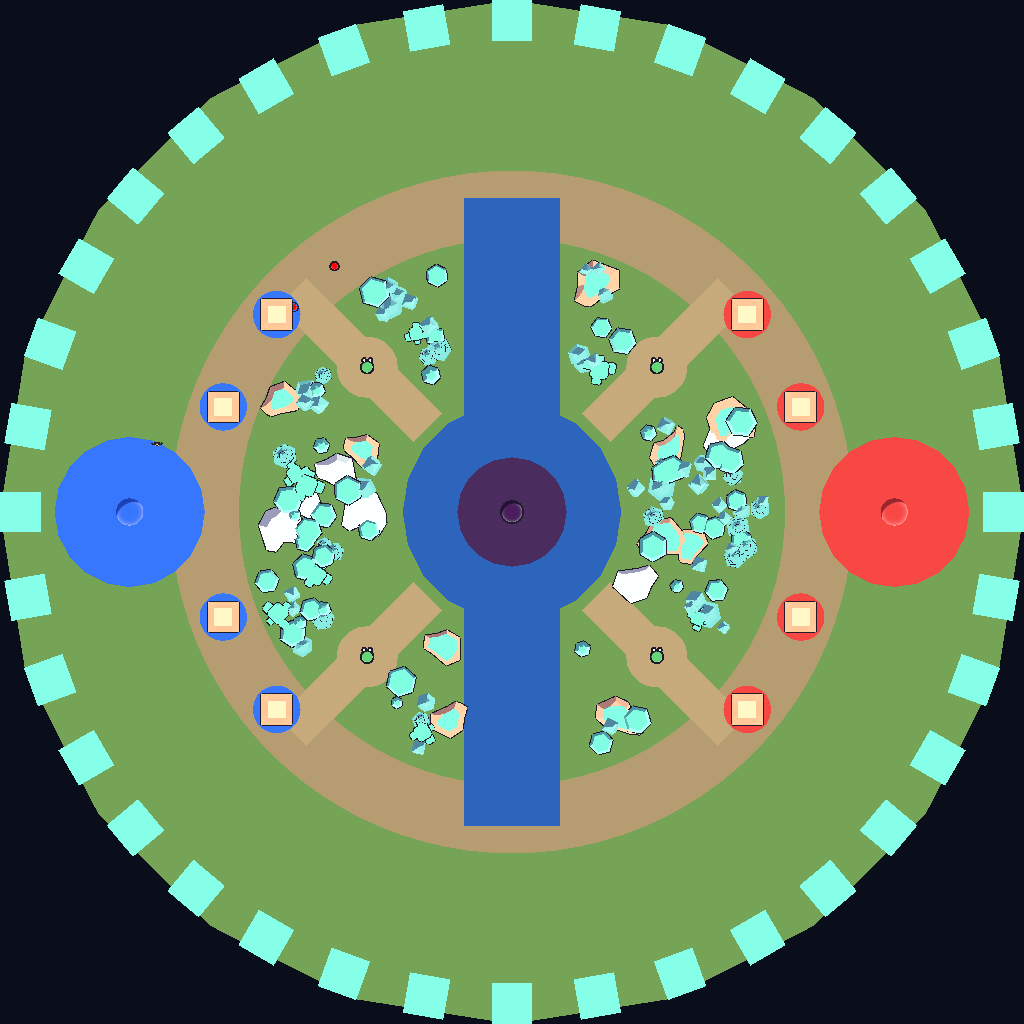
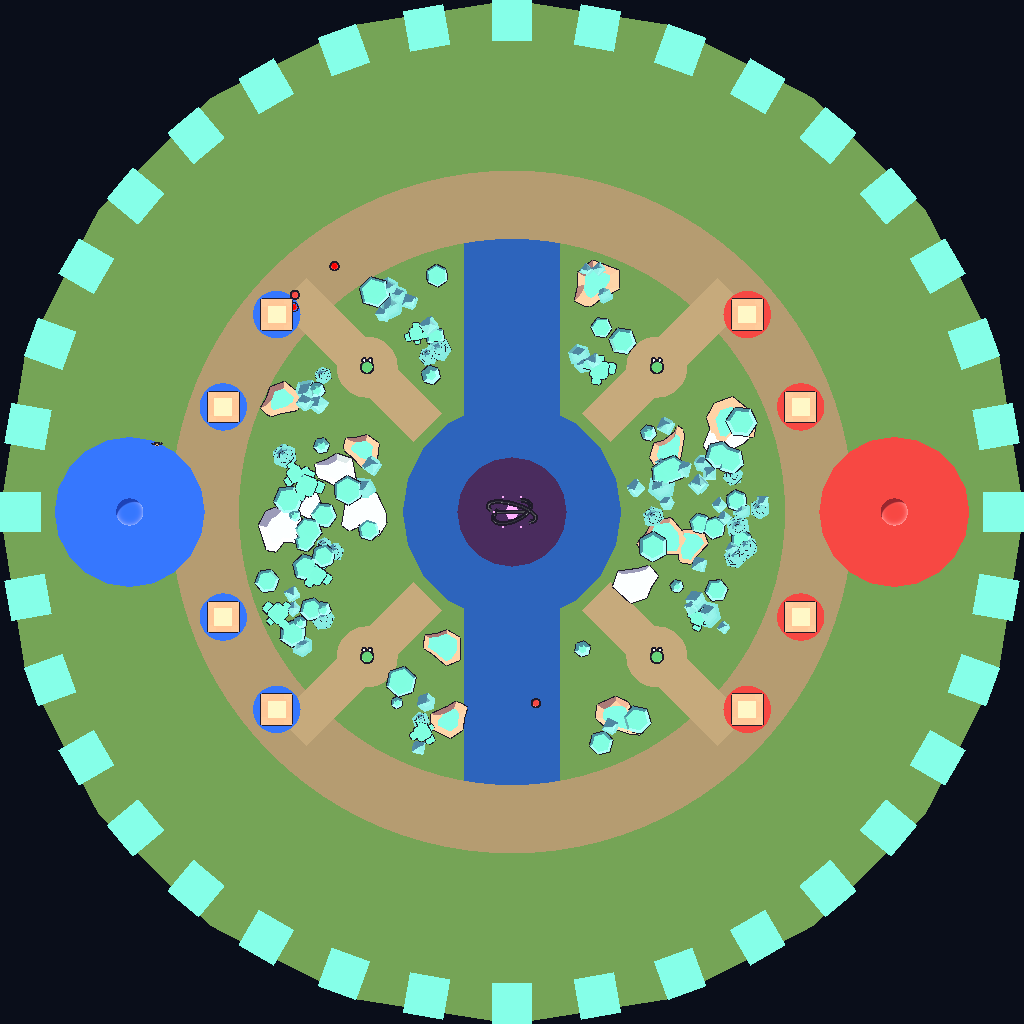
記事: ボスのプロシージャルモデリングとLoL式スキルシステム

Changed region(s): [[0.4375, 0.75, 0.5625, 0.8125], [0.4375, 0.1875, 0.5625, 0.25], [0.4688, 0.4688, 0.5312, 0.5312]]

diff --git a/_posts/2026-06-12-skill-system-and-boss.md b/_posts/2026-06-12-skill-system-and-boss.md
@@ -1,0 +1,60 @@
+---
+layout: post
+title: "ボスをプロシージャルモデリングし、スキルに LoL の魂を入れる"
+tags: [ボス, スキルシステム, プロシージャル, マップ]
+---
+
+今回は4本立て: 中立ボス「エニグマ・コア」の見た目刷新、LoL 式スキルポイント制、川とレーンのレイヤリング修正、デバッグ用ダミー敵。EditMode テストは 182 件になった。
+
+<figure>
+  <img src="{{ '/assets/img/boss_core.jpg' | relative_url }}" alt="エニグマ・コアの新ビジュアル">
+  <figcaption>新生エニグマ・コア。発光する六角両錐クリスタルの周りを3本のリングが別軸で回る</figcaption>
+</figure>
+
+## ボスは「買う」のでも「描く」のでもなく「生成する」
+
+ボスの見た目はずっと仮のカプセルだった。アセットストアから何かを導入する手もあったが、「エニグマ・コア=謎の核」というコンセプトには既製のゴーレムより**幾何学的な人工物**が合う。そこでメッシュをコードで生成することにした。
+
+- **本体**: 六角両錐(バイピラミッド)。三角形ごとに頂点を分離してフラット法線にすることで、宝石のカット面のようなエッジを出す
+- **リング3本**: トーラスメッシュ(半径 2.2 / 2.9 / 3.6)。それぞれ別の軸・速度で回転
+- **破片6個**: 小さな両錐が半径 2.6 の円周を公転
+
+マテリアルは URP/Unlit に明度2倍の紫シアンを入れてブルームで発光させる。回転・浮遊は `BossCoreVisual` という transform 操作だけの小さなスクリプトで、ボスの AI・HP・ギミックには一切触れていない(見た目の子オブジェクトだけ差し替え)。
+
+プロシージャル生成の利点は調整がパラメータで済むこと。「リングをもう1本」「クリスタルを細く」が数字1つで、再生成すれば完了する。
+
+## スキルに LoL の魂: ポイント制・ランク・ツールチップ
+
+これまで Q/E/R は最初から全部使えた。LoL の「レベルアップでスキルを選んで育てる」意思決定を移植した:
+
+- レベルアップごとにポイント1。**Q/E は最大ランク5**(ランク n には Lv 2n−1 が必要)、**R は Lv6/8/10 でのみ**最大3まで
+- ランクごとにダメージ +25%。**ランク0 のスキルは撃てない**(ロックアイコン表示)
+- ポイントがあるとスロットの上に金色の「+」が出てクリックで習得 — おなじみの UI
+- スロットにカーソルを合わせると、スキル名・ランク・**倍率適用後の実ダメージ**・CD・説明文のツールチップ
+
+ルールは全て plain C# の `SkillProgression` に隔離し、25件のテストで「R は Lv7 でランク2にできない」のような境界を固定した。UI はこのクラスに問い合わせるだけなので、仕様変更(例: 最大レベルを 18 に拡張)はロジック側の定数変更で済む。
+
+キャスト時のエフェクトも追加: マズルバースト(Q=シアン / E=マゼンタ / R=ゴールド)、弾のトレイル、AoE の着弾バースト。パーティクルアセットは使わず、Unlit 透過マテリアル+拡大フェードの自壊スクリプトという最小構成。
+
+## 川がレーンの上に被っていた問題
+
+プレイテスト指摘より。同一平面のチラつき(Z-fighting)を防ぐために地形を「階段状」に重ねていたのだが、その順序が **川 > レーン** になっており、レーンとの交差部で川が上書きしていた。陸路が水没して見える。
+
+修正は階段順の組み替えだけ: <code>地面(0) &lt; 川上面(0.03) &lt; ジャングルパス(0.045) &lt; レーン(0.06)</code>。これでレーンが川の上を**橋**として通る。真上からベイクしたミニマップ地形にもそのまま反映される。
+
+<figure>
+  <img src="{{ '/assets/img/MinimapBg.png' | relative_url }}" alt="修正後のマップ俯瞰">
+  <figcaption>修正後の俯瞰ベイク。南北の交差部でレーンが川を分断している(=橋になっている)。中央にはボスのリングも写っている</figcaption>
+</figure>
+
+## デバッグ用ダミー敵プレイヤー
+
+対人戦のテスト相手として、HP500 のダミー敵を2体(レーン上・川沿い)に常駐させた。倒すと8秒後に同じ場所にリスポーンする。スキルのダメージ検証・ターゲティングの確認・タワーダイブの練習台として地味に効く。敵レーナー AI を作るまでのつなぎでもある。
+
+## TIPS
+
+- **トリガーイベントはペアのどちらかに Rigidbody が必須**(前回の教訓)。今回ダミー敵を追加した際も、攻撃が当たることを最初に確認した
+- UI Toolkit の `+` ボタンのような**クリック可能要素は親の `picking-mode="Ignore"` を継承しない**が、スロットの `overflow:hidden` 内に置くとはみ出し配置ができない。オーバーレイ要素は一つ上の階層に置いて座標を合わせるのが楽
+- ランク解放のような「UI から呼ばれる状態遷移」は、UI を介さずロジック単体でテストできる形にしておくと、+ボタンのクリック検証は「1回押して rank が 1 になる」の E2E 一発で済む
+
+数字で見るこのラウンド: 52 ファイル変更、新規メッシュアセット5、テスト 157→182 件。
